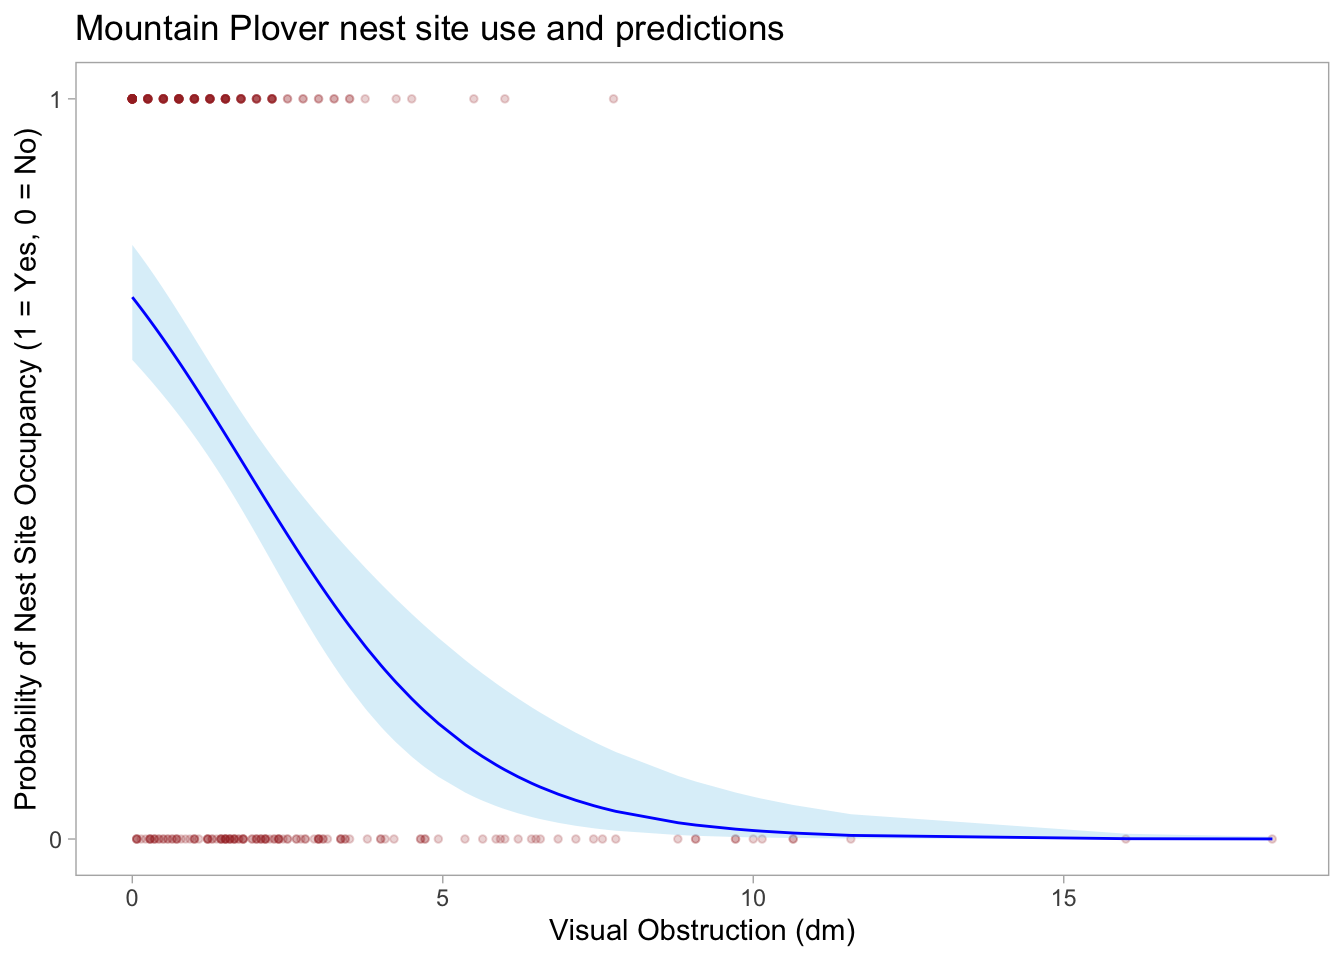
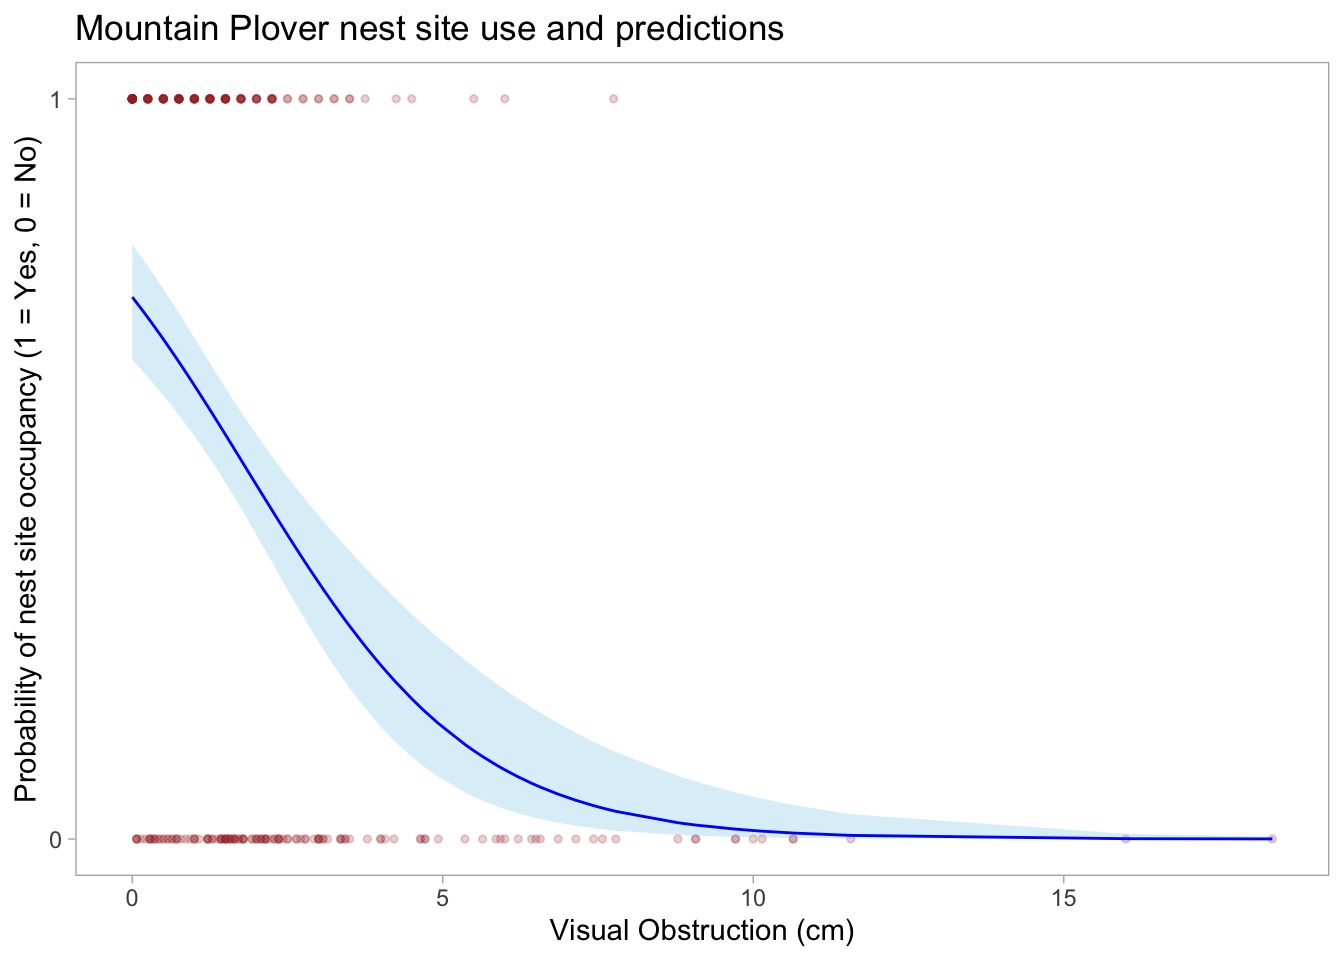
reading in personal data and interpreting results

diff --git a/Code/ENVS193DS_final.html b/Code/ENVS193DS_final.html
@@ -199,7 +199,8 @@ window.Quarto = {
 <span id="cb1-9"><a href="#cb1-9" aria-hidden="true" tabindex="-1"></a></span>
 <span id="cb1-10"><a href="#cb1-10" aria-hidden="true" tabindex="-1"></a><span class="co"># reading in data</span></span>
 <span id="cb1-11"><a href="#cb1-11" aria-hidden="true" tabindex="-1"></a>kelp <span class="ot">&lt;-</span> <span class="fu">read_csv</span>(<span class="fu">here</span>(<span class="st">"data"</span>, <span class="st">"kelp_data.csv"</span>)) <span class="co"># storing kelp data as an object called kelp for problem 2</span></span>
-<span id="cb1-12"><a href="#cb1-12" aria-hidden="true" tabindex="-1"></a>mopl <span class="ot">&lt;-</span> <span class="fu">read_csv</span>(<span class="fu">here</span>(<span class="st">"data"</span>, <span class="st">"MOPL_nest-site_selection_Duchardt_et_al._2019.csv"</span>)) <span class="co"># storing data for problem 3 as an object called mopl</span></span></code></pre></div><button title="Copy to Clipboard" class="code-copy-button"><i class="bi"></i></button></div>
+<span id="cb1-12"><a href="#cb1-12" aria-hidden="true" tabindex="-1"></a>mopl <span class="ot">&lt;-</span> <span class="fu">read_csv</span>(<span class="fu">here</span>(<span class="st">"data"</span>, <span class="st">"MOPL_nest-site_selection_Duchardt_et_al._2019.csv"</span>)) <span class="co"># storing data for problem 3 as an object called mopl</span></span>
+<span id="cb1-13"><a href="#cb1-13" aria-hidden="true" tabindex="-1"></a>reading <span class="ot">&lt;-</span> <span class="fu">read_csv</span>(<span class="fu">here</span>(<span class="st">"data"</span>, <span class="st">"personal_data.csv"</span>)) <span class="co"># storing personal data as an object called reading for problem 4</span></span></code></pre></div><button title="Copy to Clipboard" class="code-copy-button"><i class="bi"></i></button></div>
 </div>
 </section>
 <section id="problem-1.-research-writing" class="level1">
@@ -248,11 +249,11 @@ window.Quarto = {
 <pre><code># A tibble: 5 × 3
   site_name    year mean_fronds
   &lt;fct&gt;       &lt;dbl&gt;       &lt;dbl&gt;
-1 Naples       2002        3.01
-2 Carpinteria  2004        3.67
-3 Carpinteria  2002        9.79
-4 Carpinteria  2005        6.24
-5 Isla Vista   2023        3.78</code></pre>
+1 Isla Vista   2016        7.74
+2 Carpinteria  2014        7.26
+3 Carpinteria  2009        9.43
+4 Isla Vista   2007       23.6 
+5 Isla Vista   2022       38.3 </code></pre>
 </div>
 </div>
 </section>
@@ -307,7 +308,7 @@ window.Quarto = {
 </section>
 <section id="b.-purpose-of-study" class="level2">
 <h2 class="anchored" data-anchor-id="b.-purpose-of-study">b. Purpose of study</h2>
-<p>Visual obstruction is a continuous numerical variable. As visual obstruction increases, Mountain Plover nest site use would decrease because snowy plovers will not be able to see their predetors. It should be noted that sparse vegetation and some visual obstruction is beneficial to snowy plovers as it provides concealment. I found this in the discussion part, “our selected model indicated that plovers avoided nesting in areas with a maximum vegetation height &gt;11 cm, corresponding with an average visual obstruction of &gt;5 cm”.</p>
+<p>Visual obstruction is a continuous numerical variable. As visual obstruction increases, Mountain Plover nest site use would decrease because snowy plovers will not be able to see their predators. It should be noted that sparse vegetation and some visual obstruction is beneficial to snowy plovers as it provides concealment. I found this in the discussion part, “our selected model indicated that plovers avoided nesting in areas with a maximum vegetation height &gt;11 cm, corresponding with an average visual obstruction of &gt;5 cm”.</p>
 <p>Distance to prarie dog colony edge is also a continuous numerical variable. As distance to prarie dog colony edge increase, Plover nest site use would decrease because they both use the same resources and prarie dogs help engineer Plover habitats, but Plover use depends on size of the prarie dog colony. This was also found in the discussion section, “Our findings reinforce the importance of black-tailed prairie dogs as engineers of Mountain Plover habitat”.</p>
 </section>
 <section id="c.-table-of-models" class="level2">
@@ -440,8 +441,8 @@ model3  2 386.1351</code></pre>
 <span id="cb9-26"><a href="#cb9-26" aria-hidden="true" tabindex="-1"></a>            <span class="at">color =</span> <span class="st">"blue"</span>) <span class="sc">+</span> <span class="co"># color for line</span></span>
 <span id="cb9-27"><a href="#cb9-27" aria-hidden="true" tabindex="-1"></a>  <span class="fu">scale_y_continuous</span>(<span class="at">limits =</span> <span class="fu">c</span>(<span class="dv">0</span>,<span class="dv">1</span>), </span>
 <span id="cb9-28"><a href="#cb9-28" aria-hidden="true" tabindex="-1"></a>                     <span class="at">breaks =</span> <span class="fu">c</span>(<span class="dv">0</span>,<span class="dv">1</span>)) <span class="sc">+</span></span>
-<span id="cb9-29"><a href="#cb9-29" aria-hidden="true" tabindex="-1"></a>  <span class="fu">labs</span>(<span class="at">x =</span> <span class="st">"Visual Obstruction (dm)"</span>, </span>
-<span id="cb9-30"><a href="#cb9-30" aria-hidden="true" tabindex="-1"></a>       <span class="at">y =</span> <span class="st">"Probability of Nest Site Occupancy (1 = Yes, 0 = No)"</span>,</span>
+<span id="cb9-29"><a href="#cb9-29" aria-hidden="true" tabindex="-1"></a>  <span class="fu">labs</span>(<span class="at">x =</span> <span class="st">"Visual Obstruction (cm)"</span>, </span>
+<span id="cb9-30"><a href="#cb9-30" aria-hidden="true" tabindex="-1"></a>       <span class="at">y =</span> <span class="st">"Probability of nest site occupancy (1 = Yes, 0 = No)"</span>,</span>
 <span id="cb9-31"><a href="#cb9-31" aria-hidden="true" tabindex="-1"></a>       <span class="at">title =</span> <span class="st">"Mountain Plover nest site use and predictions"</span>) <span class="sc">+</span></span>
 <span id="cb9-32"><a href="#cb9-32" aria-hidden="true" tabindex="-1"></a> <span class="co"># remove gridlines and apply clean theme</span></span>
 <span id="cb9-33"><a href="#cb9-33" aria-hidden="true" tabindex="-1"></a>  <span class="fu">theme_light</span>() <span class="sc">+</span></span>
@@ -475,7 +476,7 @@ vo_nest | Predicted |     95% CI
 </section>
 <section id="j.-interpret-your-results" class="level2">
 <h2 class="anchored" data-anchor-id="j.-interpret-your-results">j. Interpret your results</h2>
-<p>The probability of nest site occupancy at 0 visual obstruction is 73%. As visual obstruction increases, probability of nest site occupancy decreases. The model did not show a…</p>
+<p>The probability of nest site occupancy at 0 visual obstruction is 73%. This means when there is no visual obstruction, the probability of nest site occupancy is 73%. As seen in the figure in part g, as visual obstruction increases, probability of nest site occupancy decreases. It can also be observed that at a certain point of visual obstruction around 10 cm, the probability of nest site occupancy plateaus around 0%. Using Akaike’s Information Criterion (AIC), we determined the best model was was visual obstruction only because its’ model (model2) had the lowest AIC. Since distance to prarie dog colony was not part of the best model, including it does not improve model fit, and we cannot say anything about the relationship between distance to prarie dog colony and probability of nest site occupancy. Visual obstruction makes it difficult for Mountain Plovers to see predators and will not survive in these sites, which is why it decreases probability of nest site occupancy. The article discusses that there is some influence of prarie dog colonies on nest site occupancy as prarie dogs engineer their ecosystem and decrease vosual obstruction, though distance to prarie dog colony was not included in the best model.</p>
 </section>
 </section>
 <section id="problem-4.-affective-and-exploratory-visualizations" class="level1">
